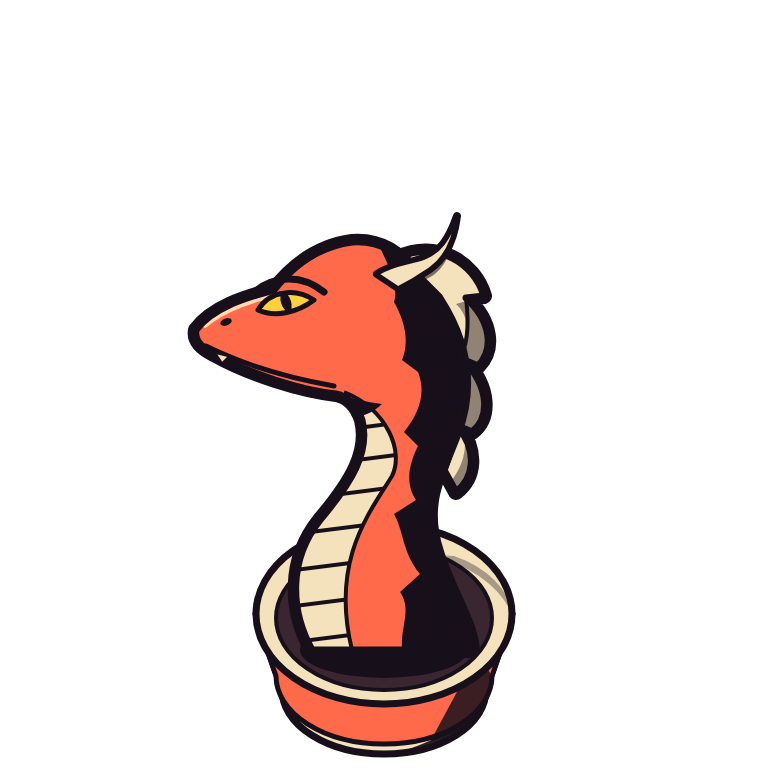
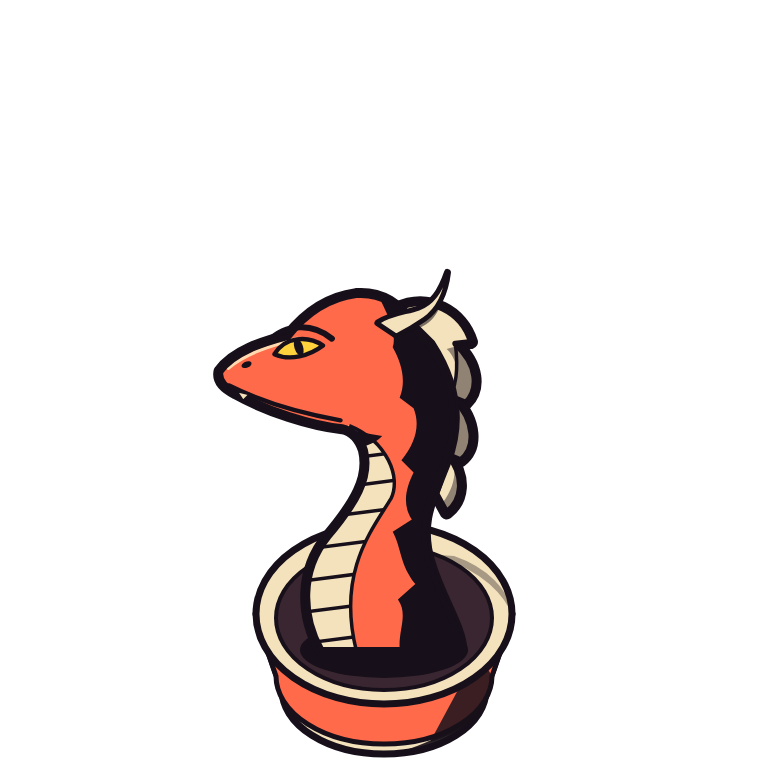
art-src: 龍 v9 — t2 縮成青少年身高
Claude-Session: https://claude.ai/code/session_01YcRvipXLdSARSXJBNmnAqn

Changed region(s): [[0.25, 0.2812, 0.6562, 0.875]]

diff --git a/art-src/dragon/build.js b/art-src/dragon/build.js
@@ -166,7 +166,9 @@ const queenCrown = () => {
     <circle cx="370" cy="270" r="6" fill="${RED}" stroke="${INK}" stroke-width="3"/></g>`;
 };
 
-const t2 = () => `${cup()}${plinth}${mane()}${head({ clipId: 'c2' })}${horns(0.5, horn(HORN_A) + hornShadow(HORN_A_SH))}`;
+// t2 是青少年：整隻比 t3 矮一點（介於 t1 與 t3，偏向 t3），以底座為中心縮放
+const teen = (body, k = 0.87) => `<g transform="translate(384 650) scale(${k}) translate(-384 -650)">${body}</g>`;
+const t2 = () => `${cup()}${plinth}${teen(mane() + head({ clipId: 'c2' }) + horns(0.5, horn(HORN_A) + hornShadow(HORN_A_SH)))}`;
 const t4 = () => `${cup()}${plinth}${wing(0.68)}${NECK_SPINES}${head({ clipId: 'c4' })}${gorget('c4')}${horns(0.5, horn(HORN_A) + horn(HORN_B))}${battlement()}`;
 const t5 = () => `${cup()}${plinth}${wing(0.75)}${NECK_SPINES}${head({ clipId: 'c5' })}${horns(0.55, horn(HORN_A) + hornShadow(HORN_A_SH))}${queenCrown()}`;
 const tiers = { 1: t1, 2: t2, 3: t3, 4: t4, 5: t5, 6: t6 };
